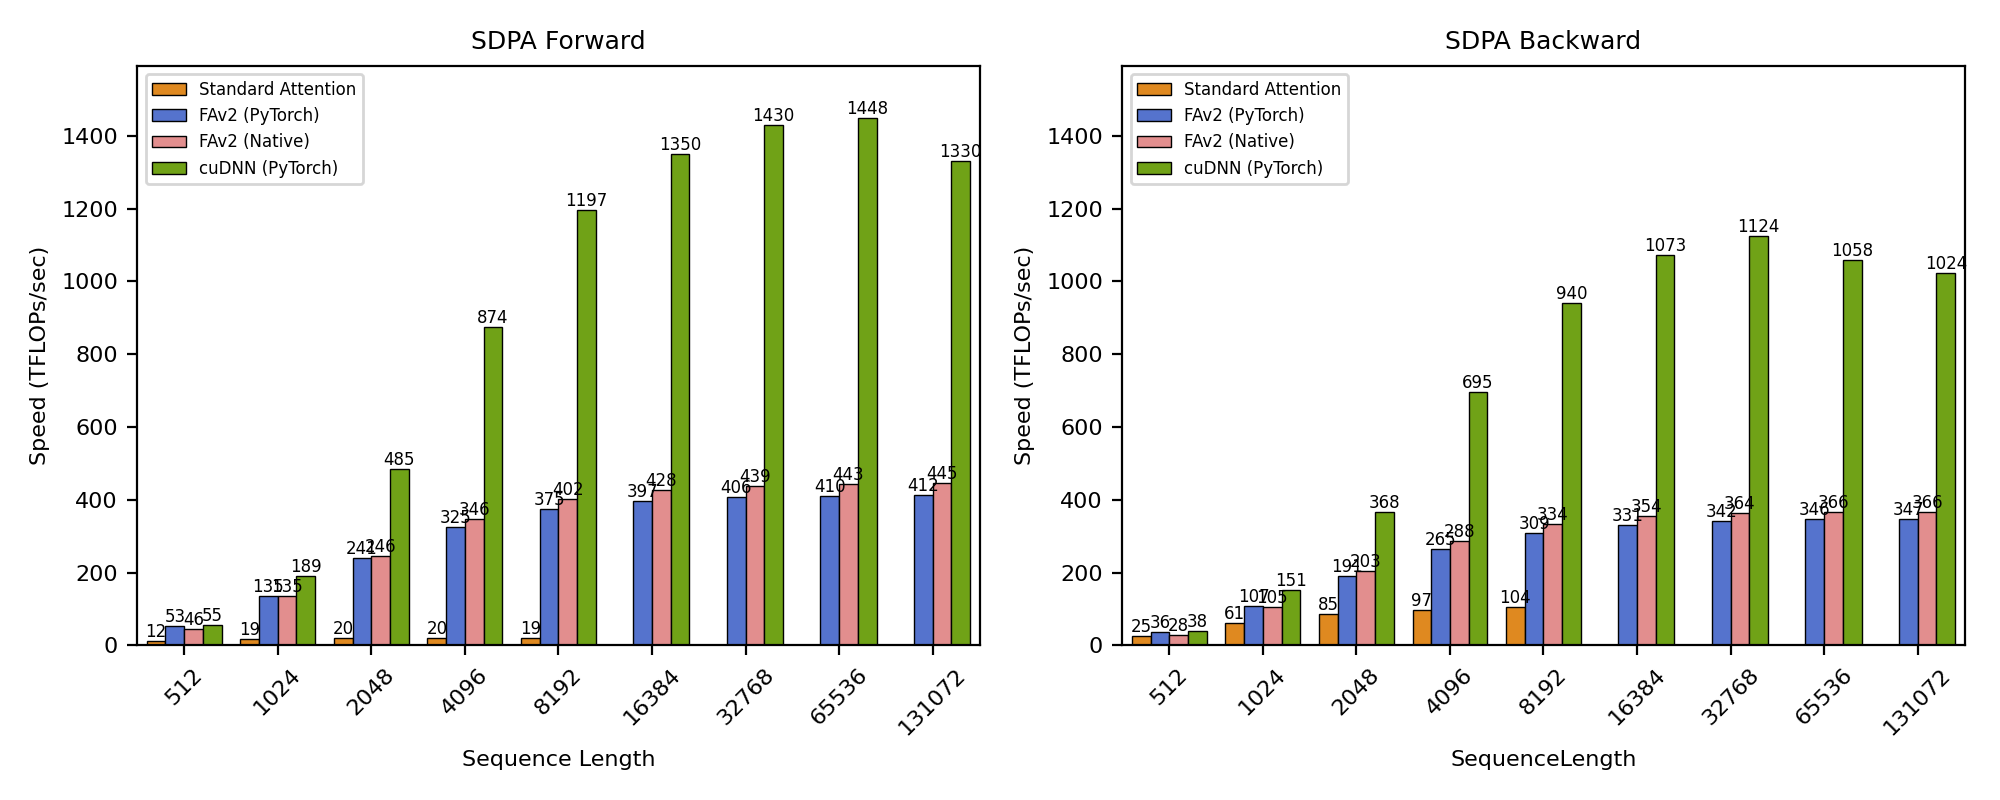
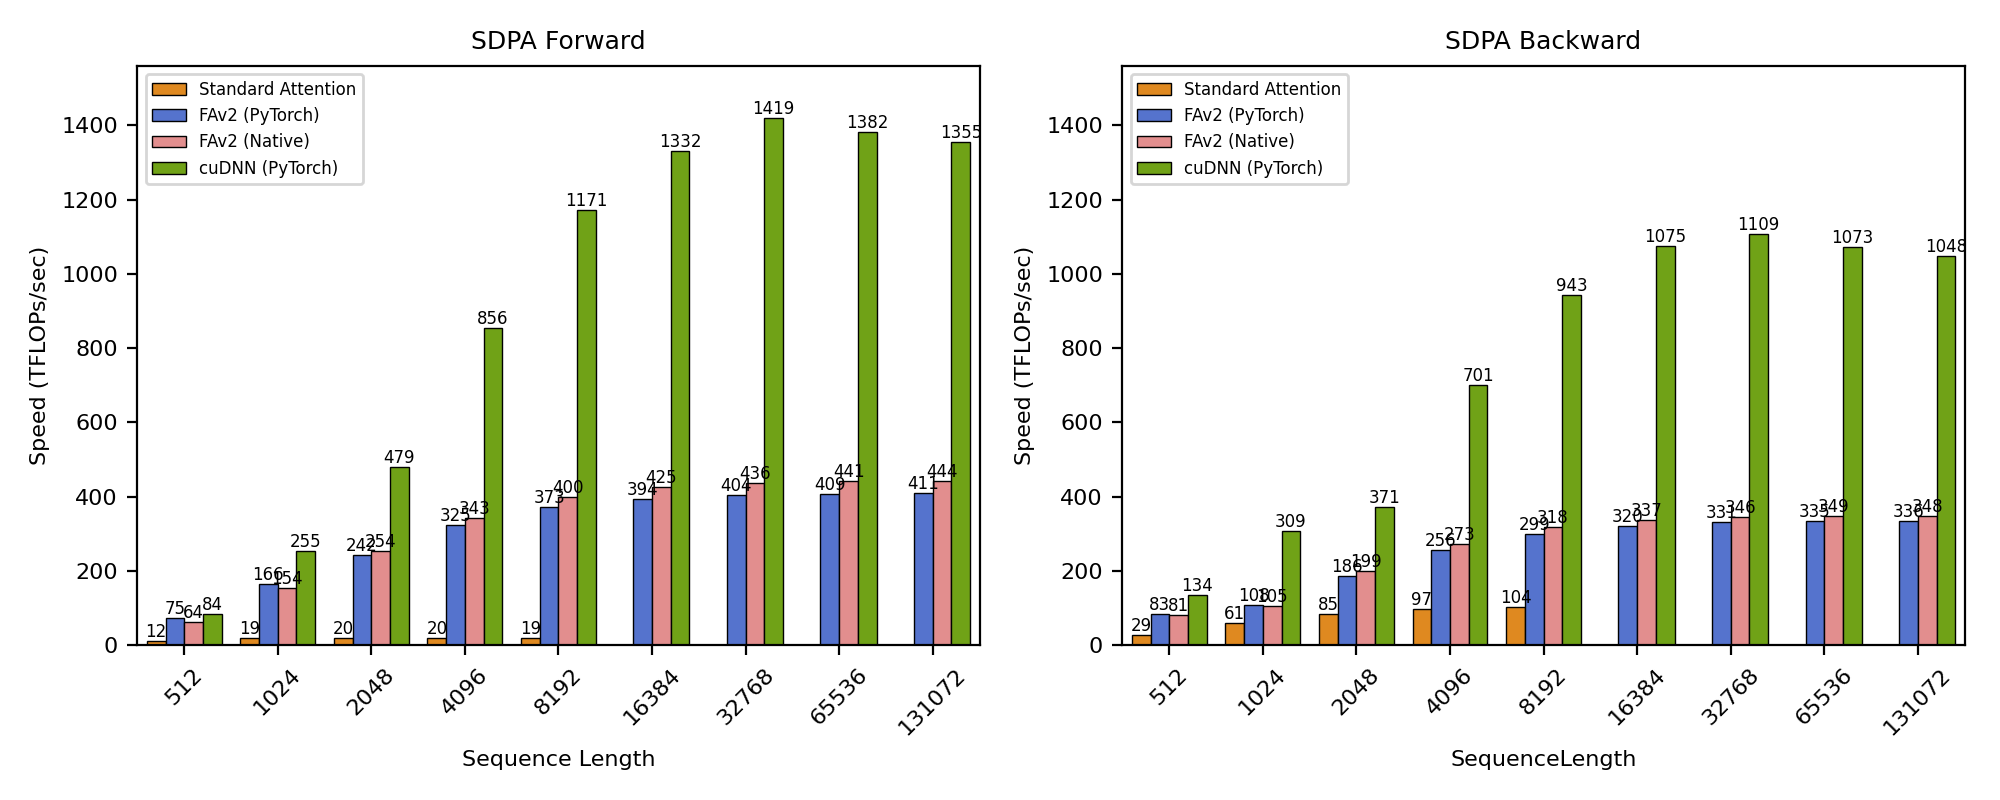
SDPA Benchmark Update for B200 and GB300
* SDPA Benchmark Update for B200 and GB300

diff --git a/benchmark/sdpa_benchmark_training/README.md b/benchmark/sdpa_benchmark_training/README.md
@@ -10,22 +10,22 @@ The provided benchmark targets training use cases--causal masking is enabled for
 - `Dockerfile` to create a Docker container for the dependencies and run the benchmark.
 - `benchmark_bf16_sdpa.py` which runs cudnn, pytorch, and other backends up to 128k sequence length.
 - `benchmark_fp8_sdpa.py` which runs cudnn on fp8 along with bf16 up to 128k sequence length.
-- Sample benchmark output and results on B200 in the `artifacts` directory.
+- Sample benchmark output and results on B200 and GB300 in the `artifacts` directory.
 - Useful Python scripts for running single attention layers: 
   - `benchmark_single_sdpa.py` for benchmarking a single flash attention instance from various backends.
   - See below for usage example.
 
 ## Software versions
 
-This benchmark code should run on any decently modern Python environment with CUDA-enabled GPU. The results in `artifacts` were collected using the PyTorch docker image [from the NVIDIA GPU CLOUD (NGC) catalog](https://catalog.ngc.nvidia.com/orgs/nvidia/containers/pytorch), `nvcr.io/nvidia/pytorch:25.06-py3`, where cuDNN 9.10.2 was used. We provide a `Dockerfile` to reproduce the environment with the following library versions
+This benchmark code should run on any decently modern Python environment with CUDA-enabled GPU. The results in `artifacts` were collected using the PyTorch docker image [from the NVIDIA GPU CLOUD (NGC) catalog](https://catalog.ngc.nvidia.com/orgs/nvidia/containers/pytorch), `nvcr.io/nvidia/pytorch:25.09-py3`, where cuDNN 9.13.1 was used. We provide a `Dockerfile` to reproduce the environment with the following library versions
 
 
 | Software       | Version |
 |----------------|---------|
-| Python         | 3.12.9  |
-| CUDA           | 12.9.0  |
-| cuDNN          | 9.10.2  |
-| PyTorch        | 2.8.0   |
+| Python         | 3.12.3  |
+| CUDA           | 13.0.0  |
+| cuDNN          | 9.13.1  |
+| PyTorch        | 2.9.0   |
 | FlashAttention | 2.7.4   |
 
 
@@ -60,13 +60,13 @@ Please note that FlashAttention-3 is currently not supported on NVIDIA's Blackwe
 Sample outputs:
 ```
 $ python3 benchmark_bf16_sdpa.py
-[INFO] torch.__version__ = '2.8.0a0+5228986c39.nv25.06'
-[INFO] torch.version.cuda = '12.9'
+[INFO] torch.__version__ = '2.9.0a0+50eac811a6.nv25.09'
+[INFO] torch.version.cuda = '13.0'
 [INFO] torch.cuda.is_available() = True
-[INFO] torch.cuda.device_count() = 1
+[INFO] torch.cuda.device_count() = 8
 [INFO] torch.cuda.current_device() = 0
 [INFO] torch.cuda.get_device_name(torch.cuda.current_device()) = 'NVIDIA B200'
-[INFO] torch.backends.cudnn.version() = 91002
+[INFO] torch.backends.cudnn.version() = 91300
 [INFO] torch.backends.cudnn.enabled = True
 [INFO] flash_attn.__version__ = '2.7.4.post1'
 [INFO] Begin benchmark for layers (batch_size,q_seqlen,kv_seqlen,num_q_heads,num_kv_heads,head_dim)
@@ -79,12 +79,12 @@ $ python3 benchmark_bf16_sdpa.py
 
 ```
 $ python3 benchmark_sdpa_fp8.py
-[INFO] cuDNN Backend Version: cudnn.backend_version() = 91002
-[INFO] cuDNN Frontend Version: cudnn.__version__ = '1.12.0'
-[INFO] torch.__version__ = '2.8.0a0+5228986c39.nv25.06'
-[INFO] torch.version.cuda = '12.9'
+[INFO] cuDNN Backend Version: cudnn.backend_version() = 91301
+[INFO] cuDNN Frontend Version: cudnn.__version__ = '1.14.1'
+[INFO] torch.__version__ = '2.9.0a0+50eac811a6.nv25.09'
+[INFO] torch.version.cuda = '13.0'
 [INFO] torch.cuda.is_available() = True
-[INFO] torch.cuda.device_count() = 1
+[INFO] torch.cuda.device_count() = 8
 [INFO] torch.cuda.current_device() = 0
 [INFO] torch.cuda.get_device_name(torch.cuda.current_device()) = 'NVIDIA B200'
 [INFO] Begin benchmark for layers (batch_size,q_seqlen,kv_seqlen,num_q_heads,num_kv_heads,head_dim)
@@ -100,13 +100,13 @@ $ python3 benchmark_sdpa_fp8.py
 Benchmarked performance numbers are stored in the [artifacts](artifacts) directory as csv and png files.
 
 ## Results
-Below are the result of the benchmark running on a single B200 GPU.
+Below are the result of the benchmark running on a single B200 GPU and a single GB300 GPU.
 
 For both runs, the following software versions are used:
 
-- CUDA: 12.9 (from NGC container)
-- PyTorch: 2.8.0 (from NGC container)
-- cuDNN: 9.10.2 (Installed via `apt-get`; see `Dockerfile`)
+- CUDA: 13.0 (from NGC container)
+- PyTorch: 2.9.0 (from NGC container)
+- cuDNN: 9.13.1 (Installed via `apt-get`; see `Dockerfile`)
 
 
 ### B200 - BF16 Performance Comparison between Backends
@@ -120,6 +120,18 @@ For both runs, the following software versions are used:
 - SDPA parameters were used `batch=1; num_q_heads=128; num_kv_heads=8; head_dim=128; is_causal=True; dtype=bfloat16`. 
 - Sequence lengths are shown in the x-axis. 
 - Results were obtained on an NVIDIA B200 GPU with free clock.
+
+### GB300 - BF16 Performance Comparison between Backends
+![Comparison of pytorch and cudnn](artifacts/sdpa_bf16_benchmark_results_NVIDIA_GB300.png)
+- SDPA parameters were used `batch=1; num_q_heads=128; num_kv_heads=8; head_dim=128; is_causal=True; dtype=bfloat16`. 
+- Sequence lengths are shown in the x-axis. 
+- Results were obtained on an NVIDIA GB300 GPU with free clock.
+
+### GB300 - cuDNN's FP8 Performance Relative to BF16
+![Comparison of pytorch and cudnn](artifacts/sdpa_fp8_benchmark_results_NVIDIA_GB300.png)
+- SDPA parameters were used `batch=1; num_q_heads=128; num_kv_heads=8; head_dim=128; is_causal=True; dtype=bfloat16`. 
+- Sequence lengths are shown in the x-axis. 
+- Results were obtained on an NVIDIA GB300 GPU with free clock.
 
 ## Pytorch adoption
 As demonstrated can be seen from the results, cuDNN v9 can achieve over 2x the performance of the comparable PyTorch eager implementation. Refer to [PyTorch's scaled_dot_product_attention()](https://docs.pytorch.org/docs/stable/generated/torch.nn.functional.scaled_dot_product_attention.html) and [sdpa_kernel](https://docs.pytorch.org/docs/stable/generated/torch.nn.attention.sdpa_kernel.html#torch.nn.attention.sdpa_kernel) context manager documentations for enabling the cuDNN backend for scaled dot product attention.
